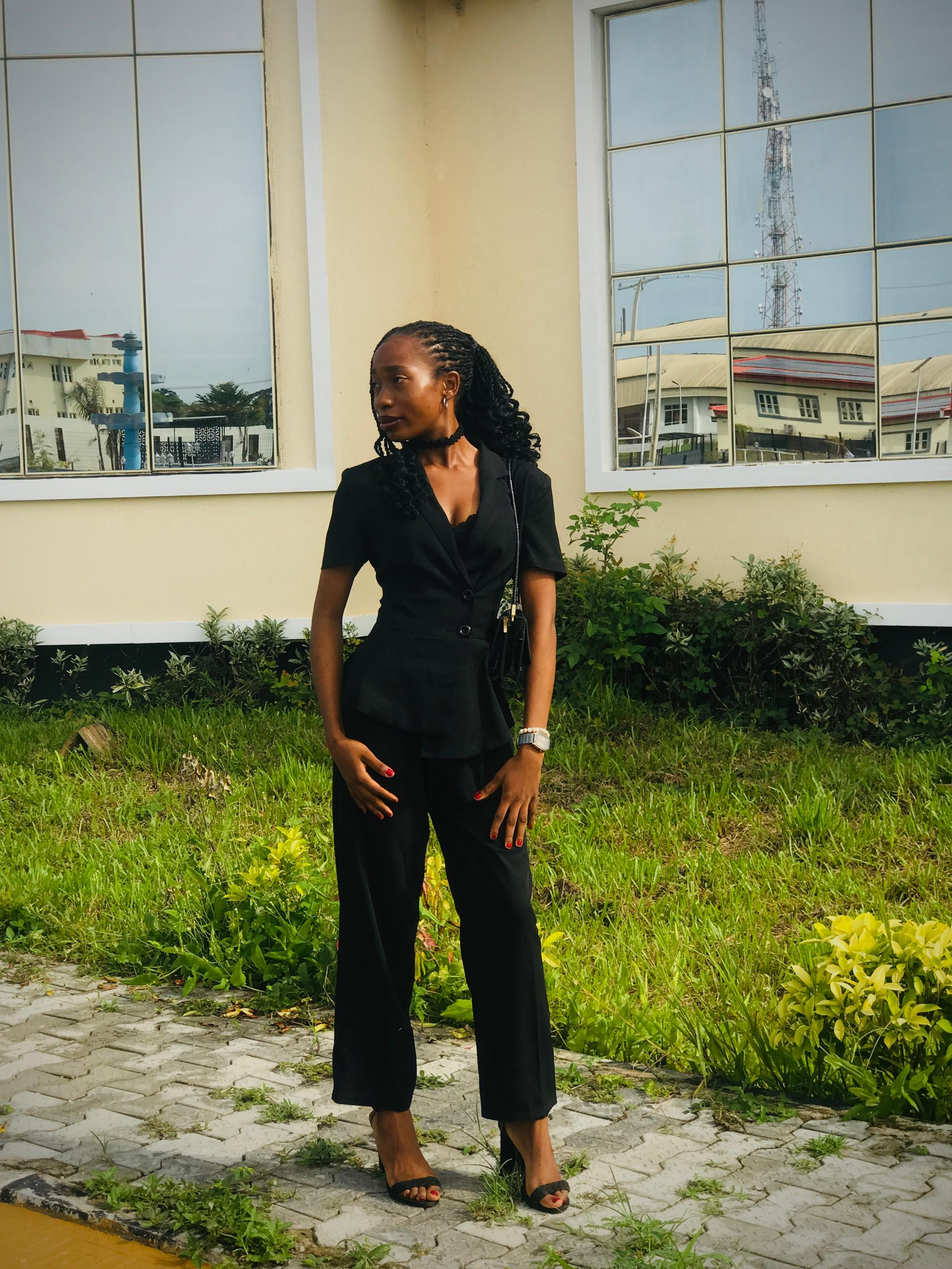
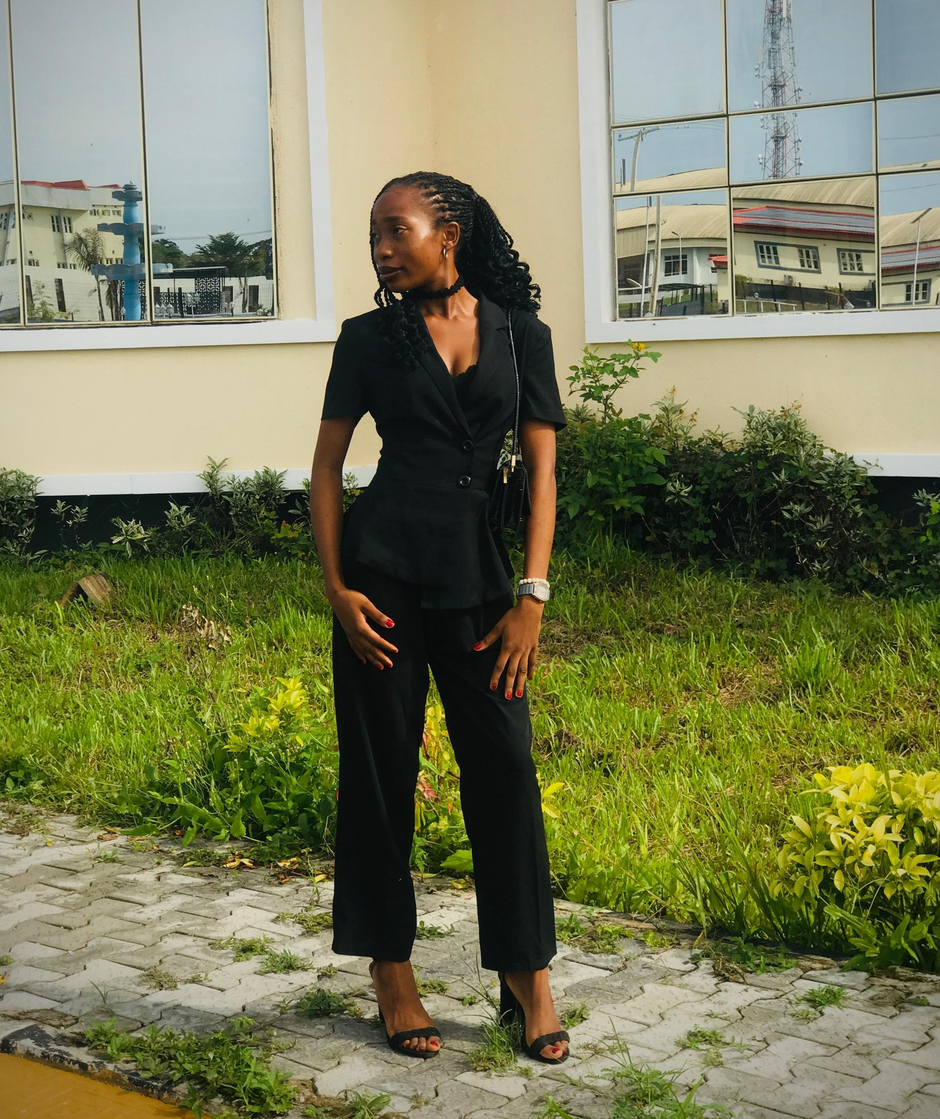
feat:add image to about page

diff --git a/src/pages/AboutMe.jsx b/src/pages/AboutMe.jsx
@@ -1,12 +1,25 @@
+import Esther from "/images/About-1.jpg";
+
 function AboutMe() {
-    return (
-        <div className="h-screen bg-black">
-        {/* Image  */}
-        <div>
-          <img src="" alt="Esther Oluwabuyi" className=""/>
-        </div>
-        </div>
-    )
+  return (
+    <div className="min-h-screen bg-black pt-[10rem] px-[2rem] md:pt-[13rem] flex flex-col overflow-hidden">
+      {/* Image  */}
+
+      <div className=" self-center bg-secondary  w-[300px] sm:w-[400px] md:w-[450px] rounded-[40%]  p-[0.45rem] h-auto z-100 flex justify-center items-center border-[0.5rem] border-primary ">
+        <img
+          src={Esther}
+          alt="Esther Oluwabuyi"
+          className=" w-full h-full rounded-[40%]"
+        />
+      </div>
+
+      {/* Texts */}
+      <div>
+        <h1 className="font-poppins">About me</h1>
+      </div>
+    </div>
+  );
 }
 
 export default AboutMe;
+// md:max-w-6xl
